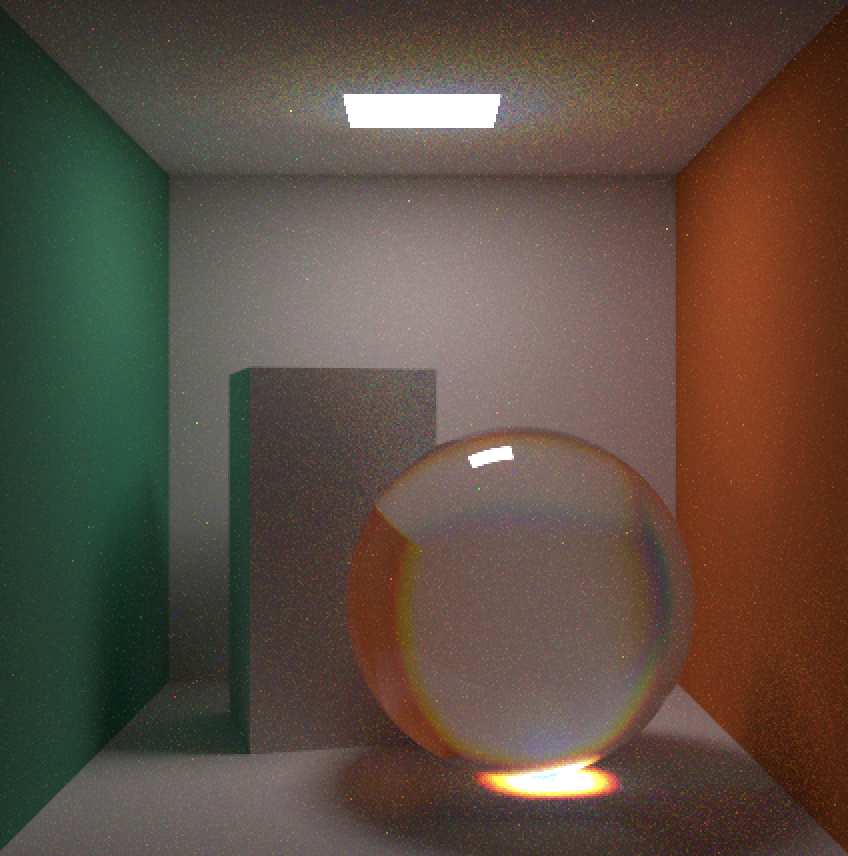
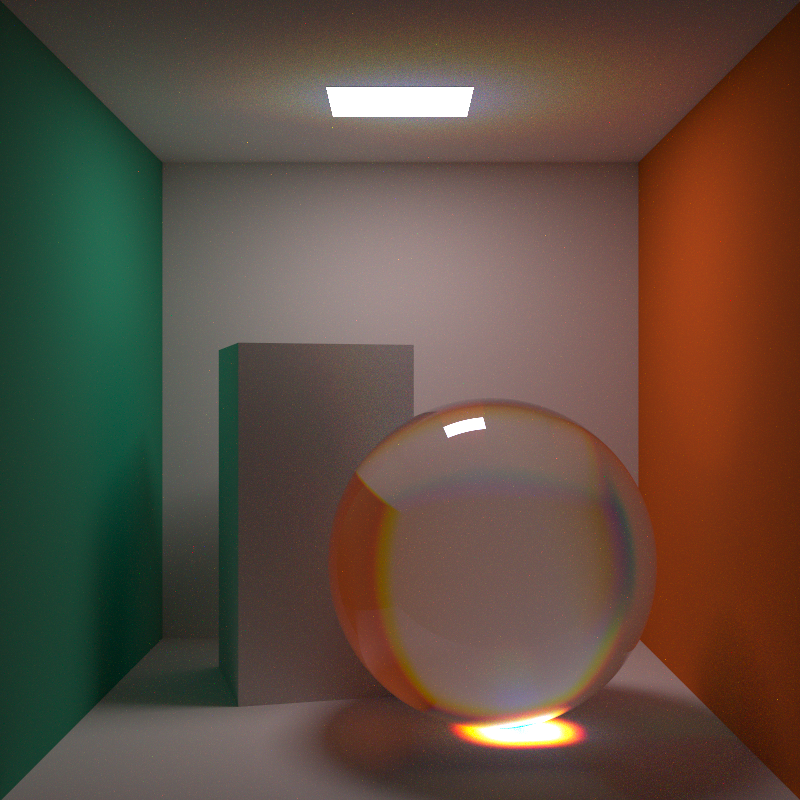
docs: improve cornell render result quality

diff --git a/README.md b/README.md
@@ -21,7 +21,7 @@ xmake run project1
 
   ![demo](docs/src/mesh/assets/demo.png)
 
-- [Project3: Ray Tracing](docs/p3-ray.pdf) 
+- [Project3: Ray Tracing](docs/p3-ray.pdf)
 
   ![demo-spheres](docs/src/ray/assets/results/checker.png)
 
@@ -30,6 +30,8 @@ xmake run project1
   ![demo-light](docs/src/ray/assets/results/light.png)
 
   ![demo-complex](docs/src/ray/assets/results/complex.png)
+
+  ![demo-cornell](docs/src/ray/assets/results/cornell-metal-s20k.png)
 
   ![demo-cornell](docs/src/ray/assets/results/cornell.png)
 
